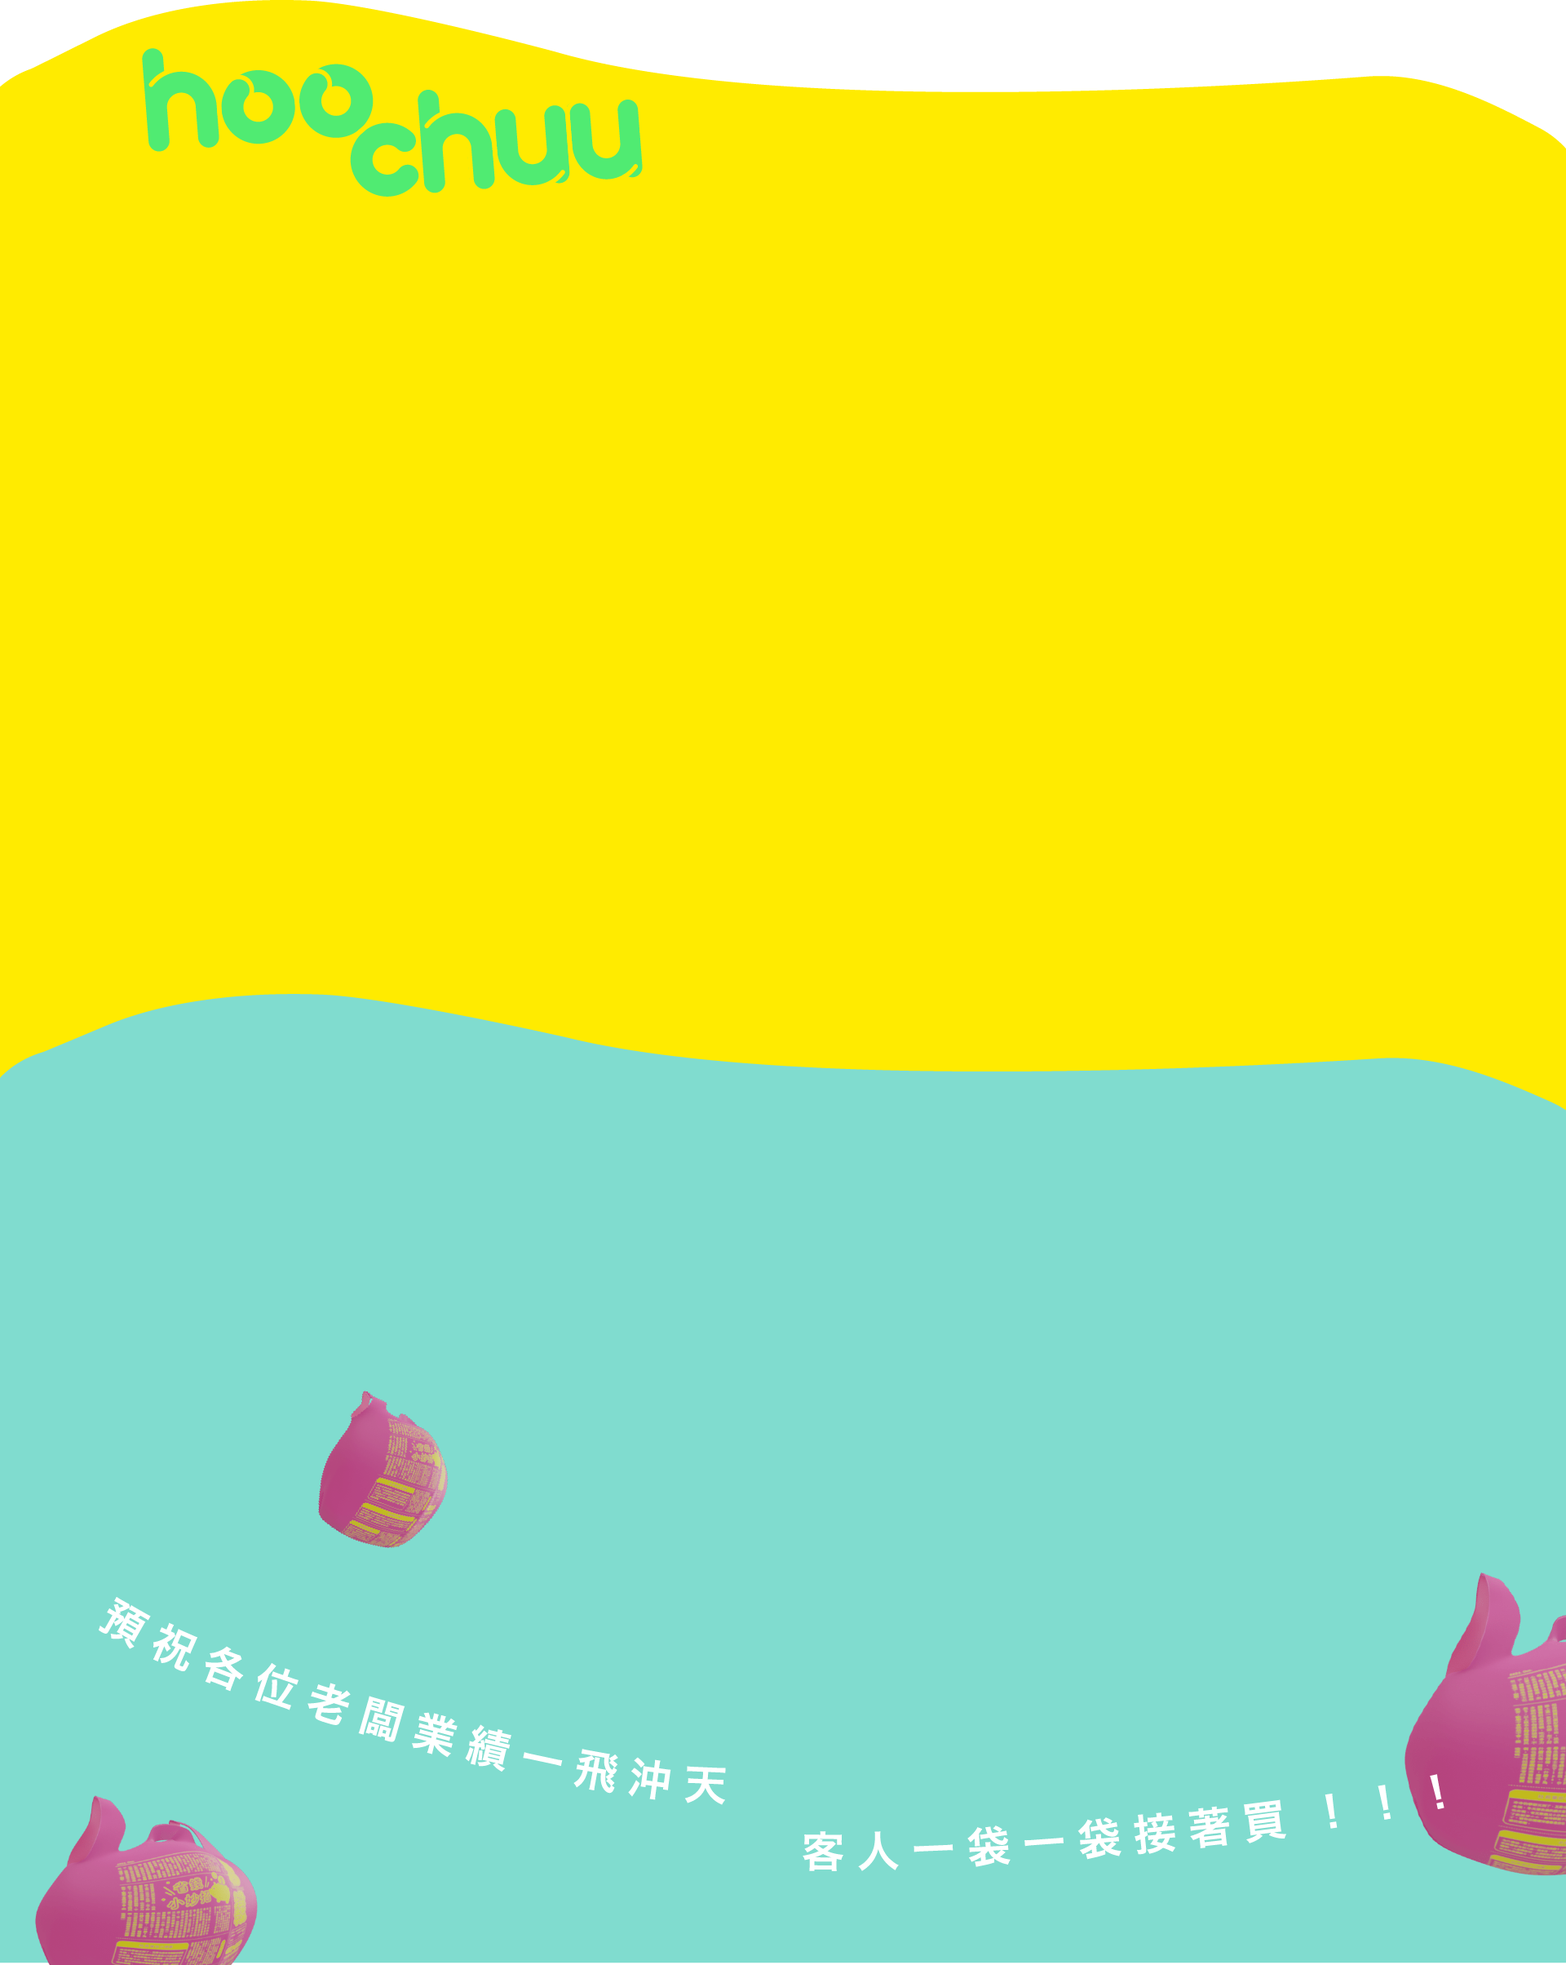
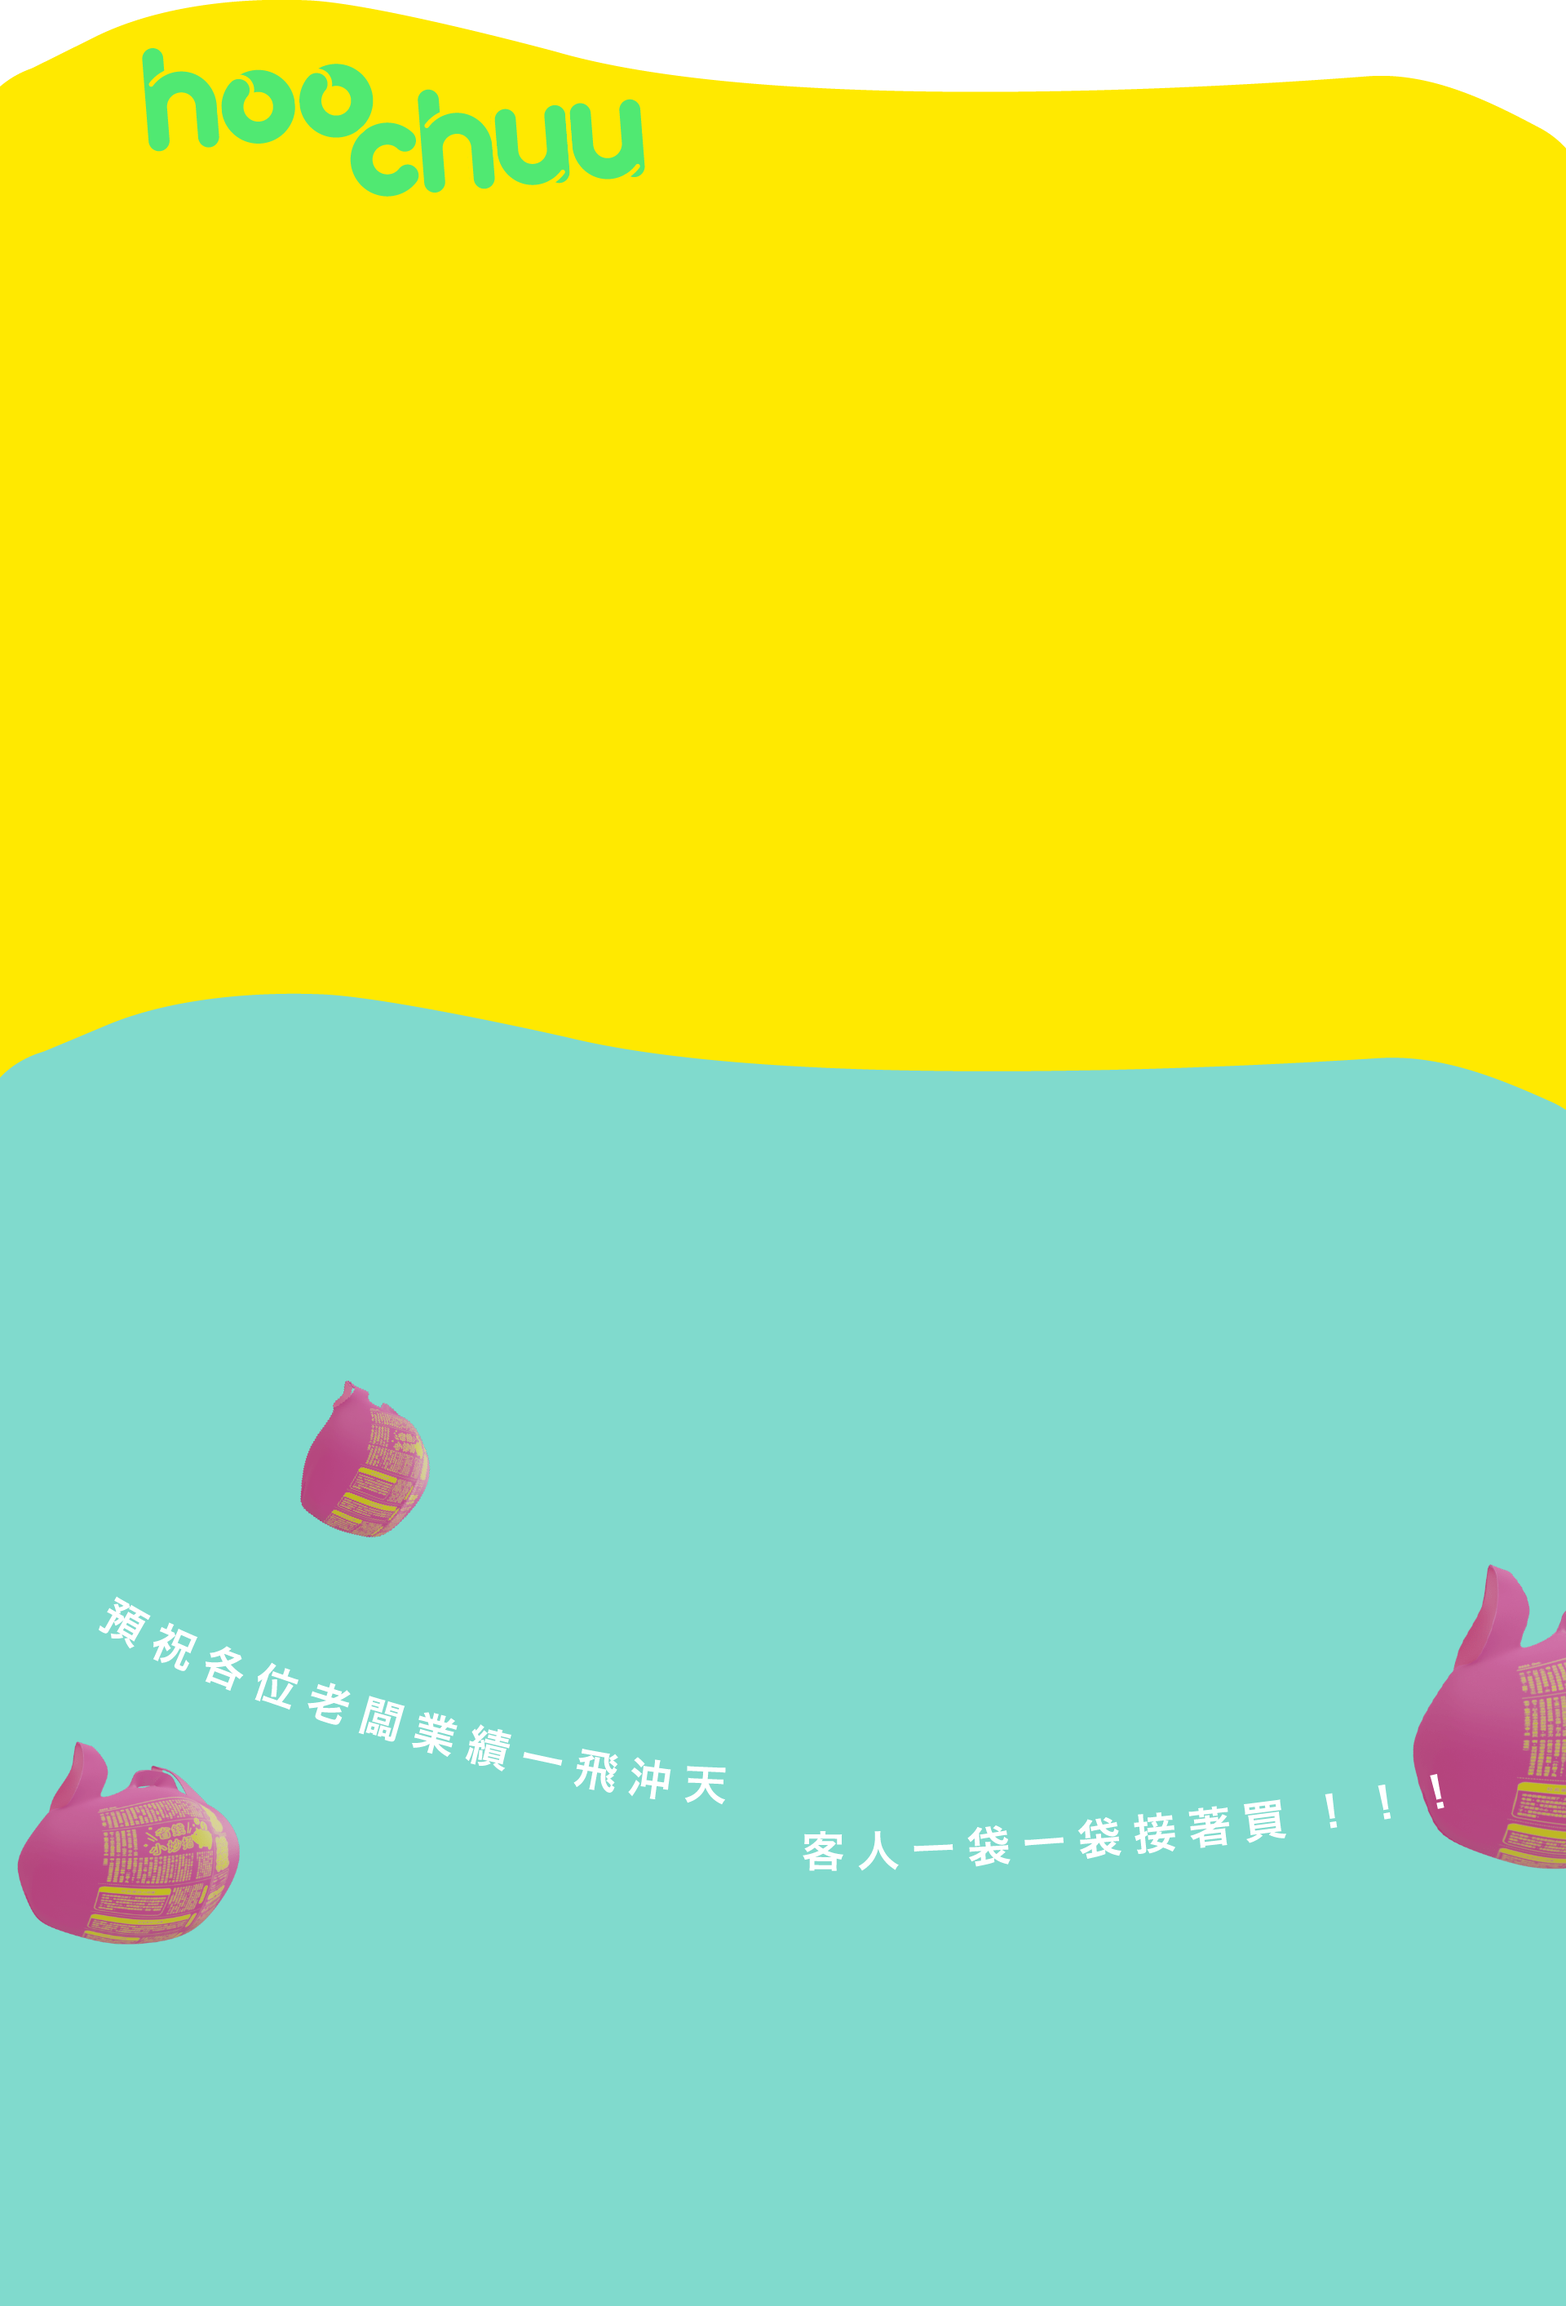
change form bg

diff --git a/style/applystyle.css b/style/applystyle.css
@@ -104,7 +104,7 @@ a.nostyle:visited {
     position: relative;
     top: 0vw;
     width: 100vw;
-    height: 140vw;
+    height: 148vw;
     background-image: url("../assets/BG.png");
     background-position: center 40px;
     background-size: contain;
